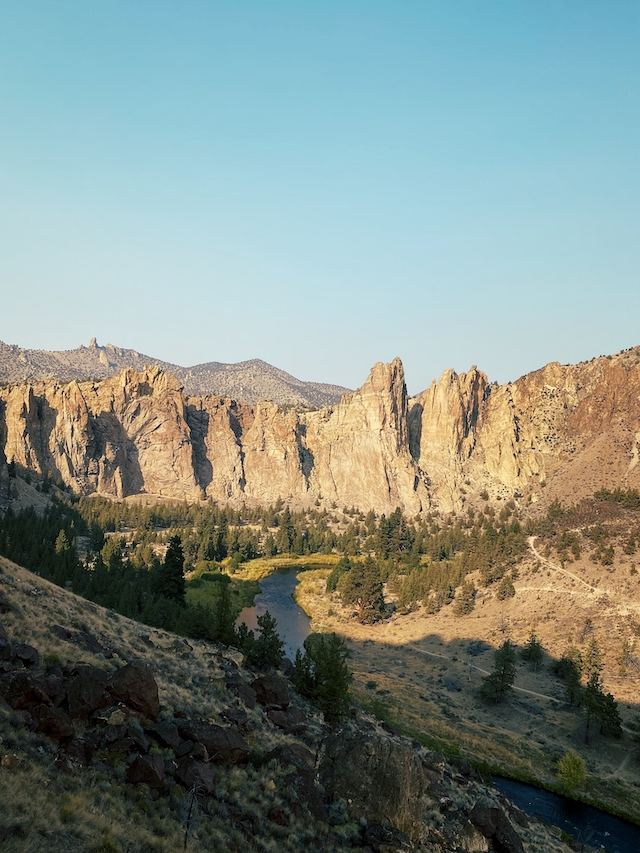
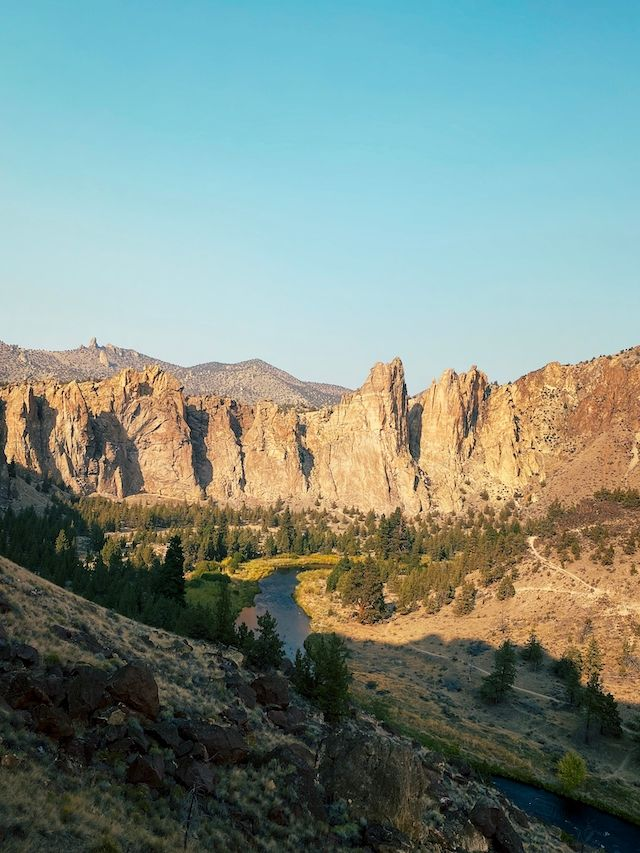
Add og image for tw blog post (#1192)
* Add og image for tw blog post

* Optimised images with calibre/image-actions

* Add timeline entry

diff --git a/src/components/Timeline/2020/November.tsx b/src/components/Timeline/2020/November.tsx
@@ -9,6 +9,13 @@ export function November() {
   return (
     <>
       <DateEntry title="November, 2020" />
+      <BlogPost
+        timestamp="November 29, 2020"
+        slug="tailwind-css-first-impressions"
+        title="Tailwind CSS First Impressions"
+        description="My pros and cons for the Tailwind CSS framework after one week."
+      />
+
       <TimelineEntry
         title="Added new bookmark types"
         timestamp="November 28, 2020"
